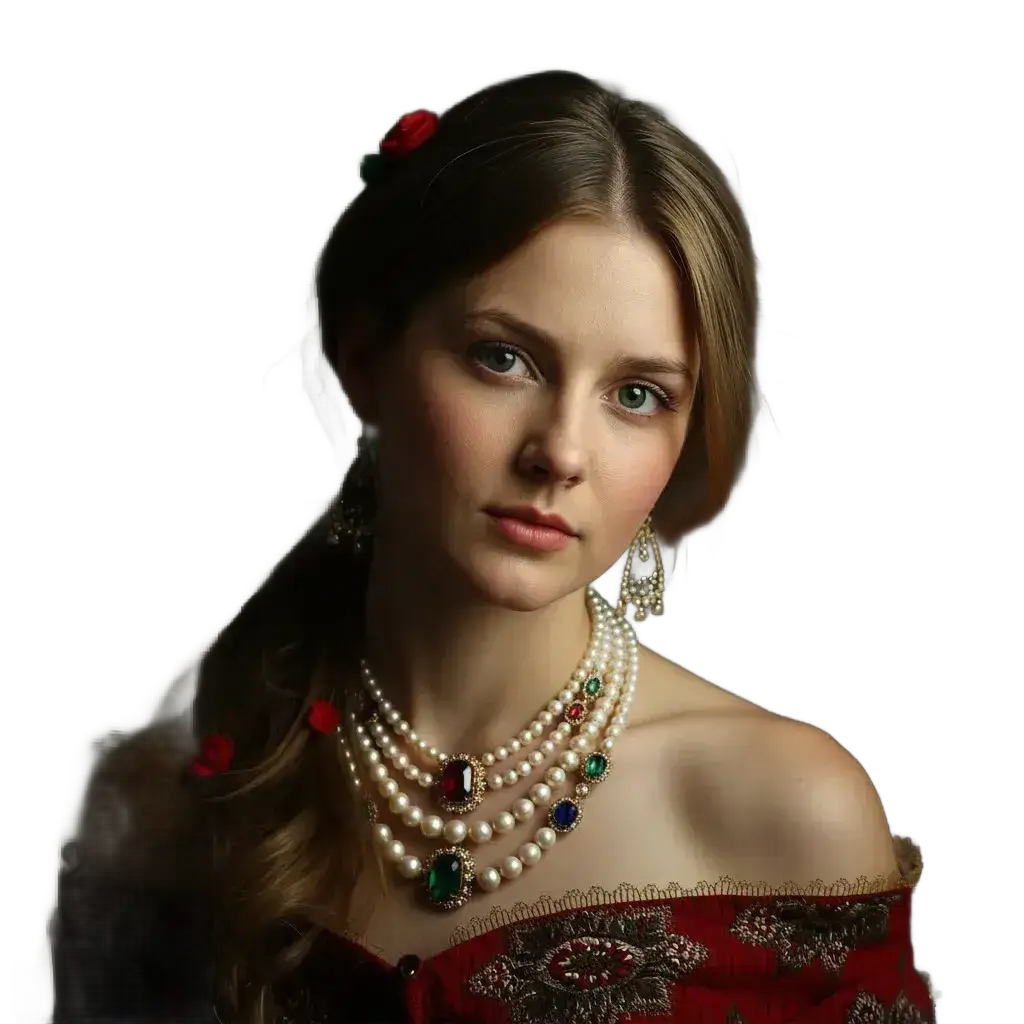
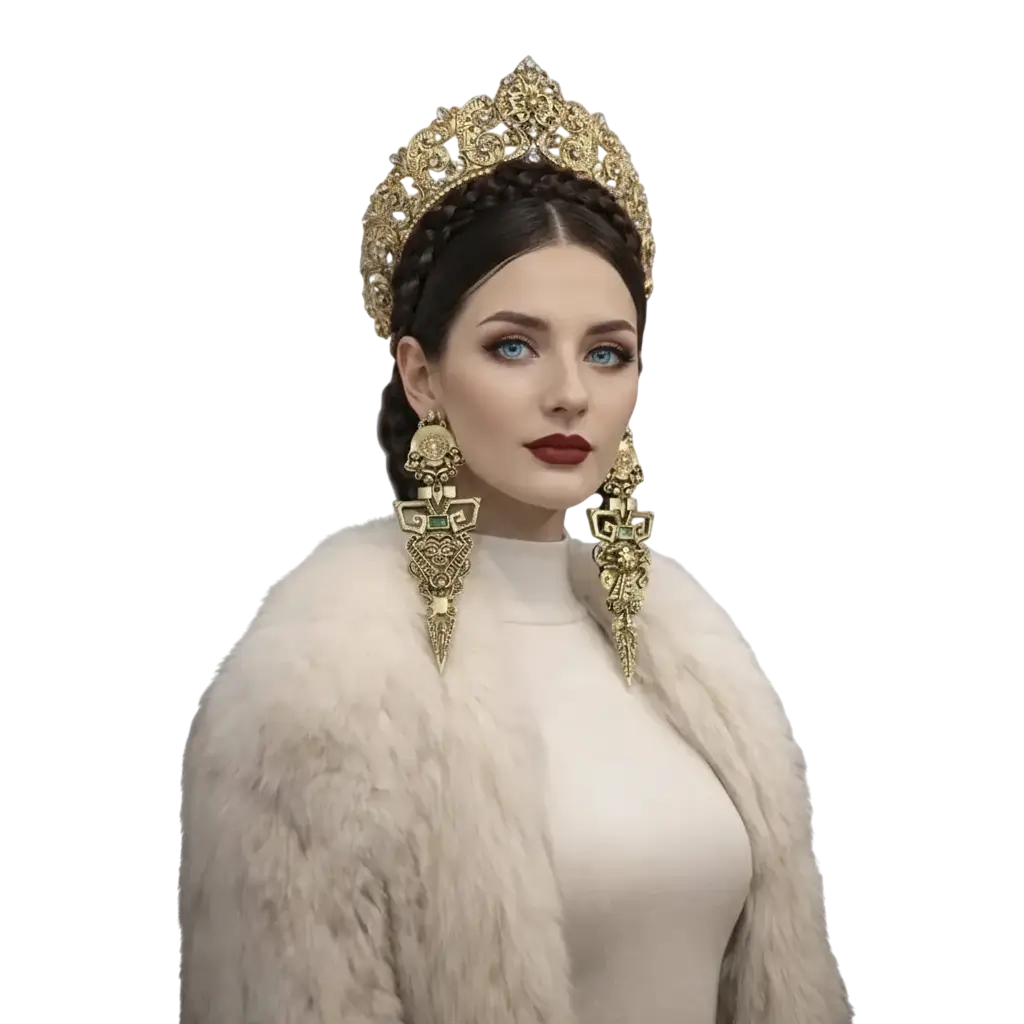
fix images

diff --git a/app/components/BeansSlider.vue b/app/components/BeansSlider.vue
@@ -1,184 +1,15 @@
-<!--<template>
-  <div class="beans-slider">
-    <div class="my_border">
-		<div class="flex w-full justify-between px-[15px] absolute">
-			<div class="w-[15%] p-[20px]">
-				<Hohloma/>
-			</div>
-			<div class="w-[15%] p-[20px]">
-				<Hohloma/>
-			</div>
-		</div>
-		<h1 class="slider-heading" :class="{ 'is-visible': isVisible }">Ювелирные Традиции России</h1>
-		<div class="img-holder">
-			<img :src="`${baseURL}images/girl.webp`" alt="image description">
-		</div>
-		<div class="flex w-full justify-between px-[15px] absolute bottom-0">
-			<div class="w-[20%]">
-				<Hohloma/>
-			</div>
-			<div class="w-[20%]">
-				<Hohloma/>
-			</div>
-		</div>
-    </div>
-  </div>
-</template>
-
-<script setup>
-const baseURL = useRuntimeConfig().app.baseURL
-
-const isVisible = ref(false);
-
-onMounted(() => {
-	setTimeout(() => {
-		isVisible.value = true;
-	}, 100);
-})
-</script>
-
-<style scoped>
-.beans-slider {
-	position: relative;
-	padding: 50px 0;
-}
-
-.my_border {
-	display: block;
-	position: relative;
-	z-index: 1;
-}
-
-.slider-heading {
-	font-size: 80px;
-	/*line-height: 170px;*/
-	letter-spacing: 9px;
-	text-align: center;
-	margin: 0;
-	opacity: 0;
-	transform: scale(0.5);
-	transition: all 0.6s ease 0.4s;
-	font-family: 'PoiretOne';
-	font-weight: 700;
-	padding: 0 48px;
-}
-
-.slider-heading.is-visible {
-	opacity: 1;
-	transform: scale(1);
-}
-
-.img-holder {
-	width: 440px;
-	margin: -15px auto 0;
-	position: relative;
-	z-index: 3;
-	opacity: 0;
-	transform: translateY(100px);
-	animation: slideUp 0.8s ease-out 1.8s forwards;
-}
-
-.img-holder img {
-	width: 100%;
-	height: auto;
-	display: block;
-}
-
-/* Верхняя граница - опускается сверху */
-.my_border:before {
-	content: '';
-	position: absolute;
-	left: 24px;
-	right: 28px;
-	top: 0;
-	padding: 60px 0;
-	border: 14px solid currentColor;
-	border-bottom: none;
-	z-index: 2;
-	opacity: 0;
-	transform: translateY(-100%);
-	animation: slideDown 0.6s ease-out 0.6s forwards;
-}
-
-/* Нижняя граница - поднимается снизу */
-.my_border:after {
-	content: '';
-	position: absolute;
-	left: 24px;
-	right: 28px;
-	bottom: 0px;
-	padding: 260px 0;
-	border: 14px solid currentColor;
-	border-top: none;
-	z-index: 2;
-	opacity: 0;
-	transform: translateY(100%);
-	animation: slideUp 0.6s ease-out 1.2s forwards;
-}
-
-/* Анимации */
-@keyframes fadeIn {
-	to {
-		opacity: 1;
-	}
-}
-
-@keyframes slideDown {
-	to {
-		opacity: 1;
-		transform: translateY(0);
-	}
-}
-
-@keyframes slideUp {
-	to {
-		opacity: 1;
-		transform: translateY(0);
-	}
-}
-
-/* Адаптив */
-@media (max-width: 768px) {
-	.slider-heading {
-		font-size: 40px;
-		line-height: 50px;
-		letter-spacing: 4px;
-	}
-
-	.img-holder {
-		width: 90%;
-		max-width: 240px;
-		margin-top: 0px;
-	}
-
-	.my_border:after {
-		padding: 20% 0;
-	}
-}
-</style>-->
-
-
-
 <template>
   <div class="beans-slider">
     <div class="my_border">
-		<!--<div class="flex w-full justify-between px-[15px] absolute corner-top">
-			<div class="corner-item">
-				<Hohloma/>
-			</div>
-			<div class="corner-item">
-				<Hohloma/>
-			</div>
-		</div>-->
 		<h1 class="slider-heading" :class="{ 'is-visible': isVisible }">Ювелирные Традиции России</h1>
 		<div class="img-holder">
 			<img :src="`${baseURL}images/girl.webp`" alt="image description">
 		</div>
 		<div class="flex w-full justify-between px-[15px] absolute bottom-0 corner-bottom">
-			<div class="corner-item">
+			<div class="corner-item" style="transform: rotate(45deg) scaleX(-1)">
 				<Hohloma/>
 			</div>
-			<div class="corner-item">
+			<div class="corner-item" style="transform: rotate(-45deg);">
 				<Hohloma/>
 			</div>
 		</div>
@@ -211,7 +42,7 @@ onMounted(() => {
 }
 
 .corner-item {
-	width: 15%;
+	width: 30%;
 	padding: 20px;
 }
 
@@ -247,6 +78,7 @@ onMounted(() => {
 	width: 100%;
 	height: auto;
 	display: block;
+	padding-bottom: 14px;
 }
 
 .my_border:before {
@@ -255,7 +87,7 @@ onMounted(() => {
 	left: 24px;
 	right: 28px;
 	top: 0;
-	padding: 60px 0;
+	padding: 70px 0;
 	border: 14px solid currentColor;
 	border-bottom: none;
 	z-index: 2;
@@ -270,7 +102,7 @@ onMounted(() => {
 	left: 24px;
 	right: 28px;
 	bottom: 0px;
-	padding: 260px 0;
+	padding: 270px 0;
 	border: 14px solid currentColor;
 	border-top: none;
 	z-index: 2;
@@ -307,7 +139,7 @@ onMounted(() => {
 	}
 
 	.corner-item {
-		width: 18%;
+		width: 35%;
 		padding: 15px;
 	}
 
@@ -333,13 +165,17 @@ onMounted(() => {
 		font-size: 32px;
 		line-height: 40px;
 		letter-spacing: 3px;
-		padding: 0 24px;
+		padding: 24px;
 	}
 
 	.img-holder {
-		width: 85%;
-		max-width: 280px;
+		width: 100%;
+		max-width: 380px;
 		margin-top: 30px;
+	}
+
+	.img-holder img {
+		padding-bottom: 8px;
 	}
 
 	.corner-top {
@@ -351,7 +187,7 @@ onMounted(() => {
 	}
 
 	.corner-item {
-		width: 20%;
+		width: 40%;
 		padding: 8px;
 	}
 
@@ -363,11 +199,11 @@ onMounted(() => {
 	}
 
 	.my_border:before {
-		padding: 40px 0;
+		padding: 60px 0;
 	}
 
 	.my_border:after {
-		padding: 25% 0;
+		padding: 35% 0;
 	}
 }
 
@@ -377,22 +213,26 @@ onMounted(() => {
 		font-size: 24px;
 		line-height: 32px;
 		letter-spacing: 2px;
-		padding: 0 16px;
+		padding: 24px 16px;
 	}
 
 	.img-holder {
-		width: 90%;
-		max-width: 150px;
+		width: 100%;
+		max-width: 250px;
 		margin-top: 25px;
 	}
 
+	.img-holder img {
+		padding-bottom: 5px;
+	}
+
 	.corner-item {
-		width: 22%;
+		width: 40%;
 		padding: 6px;
 	}
 
 	.my_border:before {
-		padding: 30px 0;
+		padding: 90px 0;
 	}
 
 	.my_border:after {
